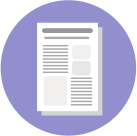
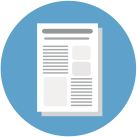
baru

diff --git a/css/freelancer.min.css b/css/freelancer.min.css
@@ -750,7 +750,7 @@
                 }
                 
                 .socmed {
-                    background-color: #AC80A0;
+                    background-color: #3685B5;
                     color: #fff;
                 }
                 
@@ -764,7 +764,7 @@
                 }
                 
                 .amz {
-                    background-color: #3685B5;
+                    background-color: #AC80A0;
                     color: #fff;
                     font-size: 1.5em;
                 }

diff --git a/socialmedia.html b/socialmedia.html
@@ -119,7 +119,7 @@
     </section>
     <!-- Footer -->
     <footer class="text-center">
-        <div class="footer-above" style='background-color:#2b6a91'>
+        <div class="footer-above" style='background-color:#9d6a8f'>
             <div class="container">
                 <div class="row"> </div>
             </div>
